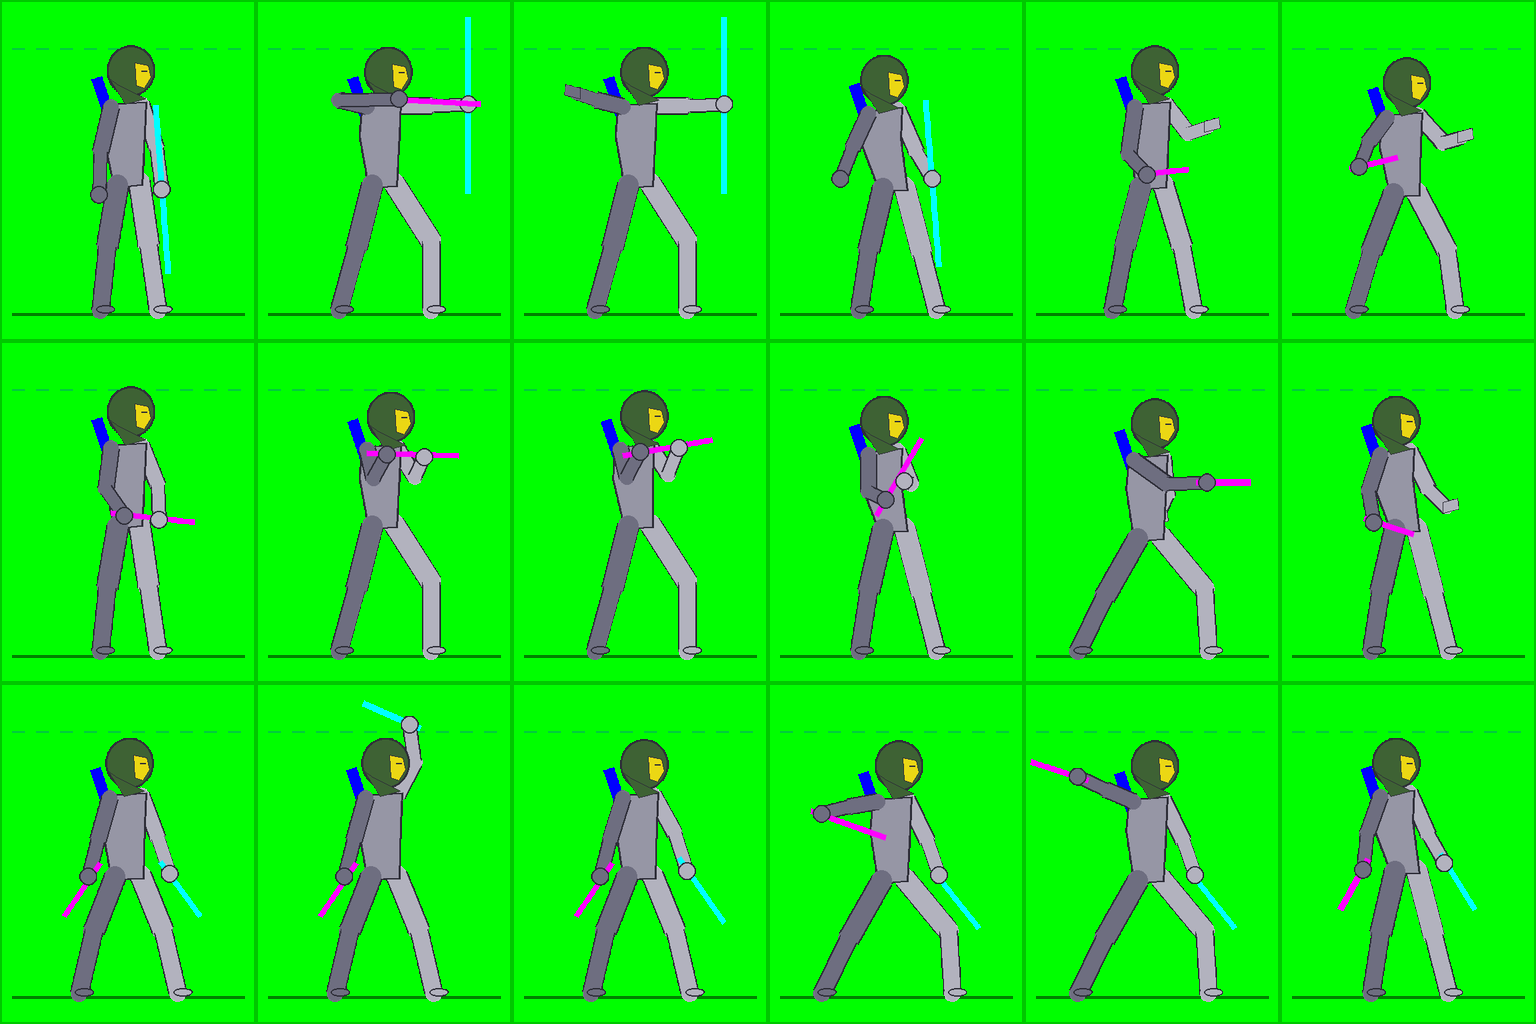
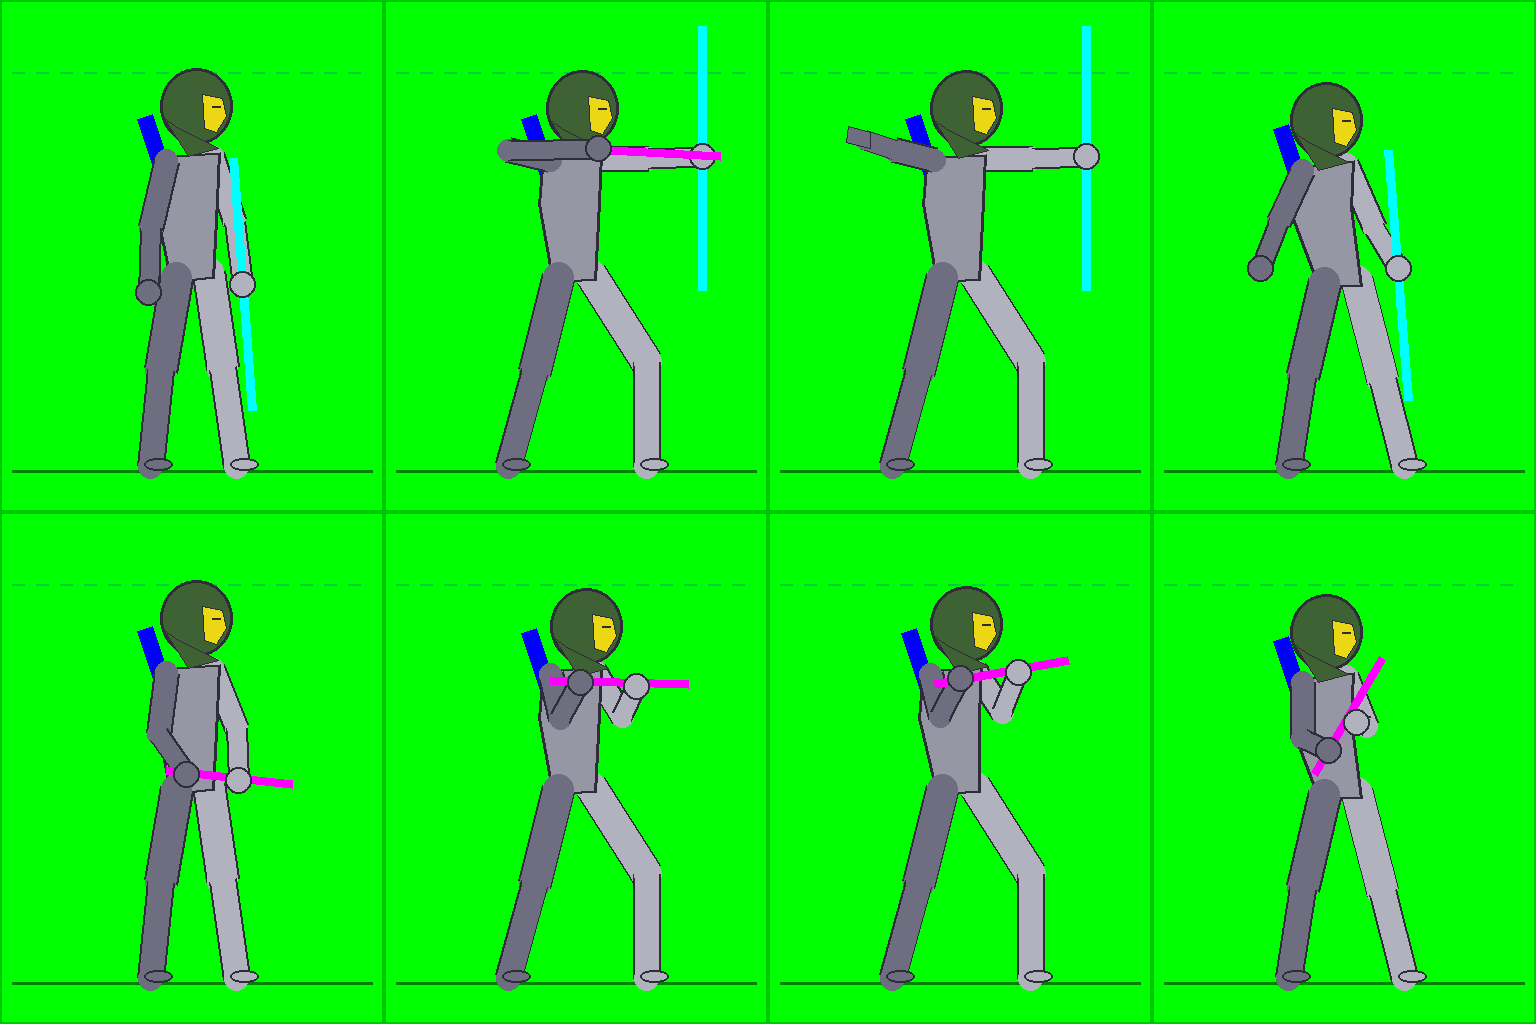
Archer: bow+crossbow sheet (done), dagger sheet template/draft/prompt
Claude-Session: https://claude.ai/code/session_01M8ejkLTav7LEMdtajuWjkN

diff --git a/art_source/new_art/battle/tools/archer_pose_draft.py b/art_source/new_art/battle/tools/archer_pose_draft.py
@@ -101,7 +101,7 @@ DUAL = {
     (1, 0): dict(UPD, **LUNGE, En=(120, 186), Wn=(80, 196), **FAR_LOW, quiver=True,
                  rods=[('near', MAG, (64, 192), (176, 232)), ('far', CYAN, (262, 300), (316, 368))]),
     (1, 1): dict(UPD, **LUNGE, En=(122, 160), Wn=(80, 140), **FAR_LOW, quiver=True,
-                 rods=[('near', MAG, (96, 146), (10, 118)), ('far', CYAN, (262, 300), (316, 368))]),
+                 rods=[('near', MAG, (96, 146), (46, 129)), ('far', CYAN, (262, 300), (316, 368))]),
     (1, 2): dict(RECOIL, En=(130, 226), Wn=(124, 280), Ef=(222, 228), Wf=(246, 270), quiver=True,
                  rods=[('near', MAG, (132, 264), (90, 340)), ('far', CYAN, (240, 256), (292, 340))]),
 }
@@ -121,17 +121,17 @@ ONE = {
 
 
 if __name__ == '__main__':
-    # one combined sheet (user, 2026-11-25): 6 x 3 cells; each mannequin is drawn at full size on a 384 x 512 cell and
-    # scaled into its 256 x 341 cell (head-top and ground lines scale onto the template's own lines)
-    LAYOUT = {(0, c): POSES[(0, c)] for c in range(4)}
-    LAYOUT.update({(1, c): POSES[(1, c)] for c in range(4)})
-    LAYOUT.update({(0, 4): ONE[(0, 0)], (0, 5): ONE[(0, 1)], (1, 4): ONE[(1, 0)], (1, 5): ONE[(1, 1)]})
-    LAYOUT.update({(2, c): DUAL[(c // 3, c % 3)] for c in range(6)})
-    im = Image.open(os.path.join(HERE, 'templates', 'archer_template.png')).convert('RGB')
-    W, H = im.size; cw, ch = W / 6, H / 3
+    # bow + crossbow sheet (2 x 4, done 2026-11-25)
+    im = Image.open(os.path.join(HERE, 'templates', 'archer_template.png')).convert('RGB'); d = ImageDraw.Draw(im)
+    for (r, c), P in POSES.items(): draw(d, P, c * 384, r * 512)
+    im.save(os.path.join(HERE, 'refs', 'archer_pose_draft.png'))
+    # dagger sheet (user, 2026-11-25: one task): 5 x 2 cells of 307 x 512 - one dagger, then dual daggers
+    LAYOUT = {(0, 0): ONE[(0, 0)], (0, 1): ONE[(0, 1)], (0, 2): ONE[(1, 0)], (0, 3): ONE[(1, 1)], (0, 4): DUAL[(0, 0)],
+              (1, 0): DUAL[(0, 1)], (1, 1): DUAL[(0, 2)], (1, 2): DUAL[(1, 0)], (1, 3): DUAL[(1, 1)], (1, 4): DUAL[(1, 2)]}
+    im = Image.open(os.path.join(HERE, 'templates', 'archer_dagger_template.png')).convert('RGB')
+    cw = im.size[0] / 5
     for (r, c), P in LAYOUT.items():
         tmp = Image.new('RGBA', (384, 512), (0, 0, 0, 0)); draw(ImageDraw.Draw(tmp), P, 0, 0)
-        tmp = tmp.resize((round(cw), round(ch)), Image.LANCZOS)
-        al = tmp.getchannel('A').point(lambda v: 255 if v > 110 else 0)
-        im.paste(tmp.convert('RGB'), (round(c * cw), round(r * ch)), al)
-    out = os.path.join(HERE, 'refs', 'archer_pose_draft.png'); im.save(out); print(out)
+        tmp = tmp.crop((40, 0, 40 + round(cw), 512))         # poses are centred at x~192 of 384; the cell is ~307 wide
+        im.paste(tmp.convert('RGB'), (round(c * cw), r * 512), tmp.getchannel('A').point(lambda v: 255 if v > 110 else 0))
+    out = os.path.join(HERE, 'refs', 'archer_dagger_pose_draft.png'); im.save(out); print(out)

diff --git a/art_source/new_art/battle/make_refs.py b/art_source/new_art/battle/make_refs.py
@@ -19,11 +19,8 @@ CLASSES = {
     # v6 (2026-11-21): main sheet = shield, two-handed, spear; the dual weapons get their own sheet (EXTRA_SHEETS)
     'soldier': [('1h', 'sword_shield'), ('2h', 'greataxe'), ('reach', 'longspear')],
     # (2026-11-24) the dagger has no shield -> dual stance on its own sheet, like the Soldier's dual weapons
-    # (2026-11-25, user: "combine them in 1 file") ONE sheet, 6 x 3: bow + one-dagger cells, crossbow + one-dagger cells,
-    # dual daggers. A 'mixed' row lists (stance, state) per cell.
-    'archer':  [('mixed', [('bow', 'stand'), ('bow', 'nock'), ('bow', 'attack'), ('bow', 'hit'), ('1h', 'stand'), ('1h', 'ready')]),
-                ('mixed', [('crossbow', 'stand'), ('crossbow', 'aim'), ('crossbow', 'attack'), ('crossbow', 'hit'), ('1h', 'attack'), ('1h', 'hit')]),
-                ('dual', ['stand', 'ready', 'slash_left', 'slash_right', 'finish', 'hit'])],
+    # main sheet = bow + crossbow (done 2026-11-25); the dagger poses are on the archer 'dagger' sheet (EXTRA_SHEETS)
+    'archer':  [('bow', 'bow'), ('crossbow', None)],
     'acolyte': [('1h', 'mace_shield'), ('2h', 'quarterstaff'), ('reach', 'longspear')],
     'mage':    [('1h', 'staff')],
     'warrior': [('1h', 'unarmed'), ('2h', 'greataxe'), ('reach', 'longspear')],
@@ -44,7 +41,11 @@ CLASS_STATES = {'soldier': {'1h': ['stand', 'ready', 'attack', 'hit'], 'dual': [
 
 # extra sheets per class: name -> rows of (stance, [cell states]). Soldier dual = user's dual-slash concept (2026-11-21):
 # stand, ready (front/cyan arm winds up), slash_left (cyan slashes down), slash_right (magenta sweeps), finish, hit
-EXTRA_SHEETS = {'soldier': {'dual': [('dual', ['stand', 'ready', 'slash_left']), ('dual', ['slash_right', 'finish', 'hit'])]}}   # (the Archer's dual and one-dagger cells are on its single combined sheet)
+EXTRA_SHEETS = {'soldier': {'dual': [('dual', ['stand', 'ready', 'slash_left']), ('dual', ['slash_right', 'finish', 'hit'])]},
+                # (user, 2026-11-25: one ChatGPT task) one dagger (off-hand empty) + dual daggers on ONE 5 x 2 sheet;
+                # a 'mixed' row lists (stance, state) per cell
+                'archer': {'dagger': [('mixed', [('1h', 'stand'), ('1h', 'ready'), ('1h', 'attack'), ('1h', 'hit'), ('dual', 'stand')]),
+                                      ('mixed', [('dual', 'ready'), ('dual', 'slash_left'), ('dual', 'slash_right'), ('dual', 'finish'), ('dual', 'hit')])]}}
 # older sheets drawn on an earlier layout: (class, sex) -> rows
 SHEET_ROWS = {('soldier', 'm'): [('1h', 'sword_shield'), ('dual', None), ('2h', 'greataxe'), ('reach', 'longspear')],   # v5 male
               ('soldier', 'f'): [('1h', 'sword_shield'), ('dual', None), ('2h', 'greataxe'), ('reach', 'longspear')]}   # Gemini edit of v5 male

diff --git a/docs/design-decisions.md b/docs/design-decisions.md
@@ -30,7 +30,7 @@ Archer and Mage melee weapons limited to **light** weapons on 2026-11-16 (user: 
 
 **Shields (user, 2026-11-20): each class has its own shield shape** — Soldier = **square** shield, Acolyte and Warrior = **round** shield (the Warrior could not use shields before; this adds it), **kite shield = reserved for a future Knight class**. A one-handed weapon **without** a shield uses the **dual-weapon stance** (left hand empty) in battle sprites. **The shield look is fixed per class** (user, 2026-11-20): shield equipment comes in broad categories (**light shield, heavy shield, tower shield**) that change the rules only; the sprite and the shield stance always show the class's own shield. Shield categories are not in the weapon sheet yet. **Headgear (user, 2026-11-20): battle sprites wear class headgear, portraits never do.** It is drawn into the sprite body by ChatGPT, so battle sprites have **no hair layer** (the portrait-hair sample is dropped for helmeted classes, `HEADGEAR` in `process_battle.py`). **Soldier final design** (`source/concepts/soldier_final_design.png`): plain open-face **barbute helm** (no crest, gold or emblem), simple silver plate armour, blue scarf and tabard, brown leather belt and gloves; the face is the only skin (yellow key). Soldier v3 prompt in `PROMPTS.md` (4 rows: square shield, dual, two-handed, spear), ~6 heads tall including the helmet. Helmet variations and faction colours on that sheet are not used. **Hair under the helmet (user, 2026-11-20):** ChatGPT draws a long-hair ponytail behind the neck in shades of **pure red** (never covering the body); `process_battle.py` cuts it into a hair value-map layer tinted with the hero's hair ramp and shows it **only for long portrait hairstyles** (`art_source/new_art/battle/hair_length.json`: male ponytail, long, wild_mane; female long, ponytail, braids, wavy, side_braid, curly_mane, warrior_halfup; buns/topknots/crown braids count as short). Both sexes get the piece. **Four sprites per stance (user, 2026-11-20, extends the three-sprite rule):** STAND | **READY** (the wind-up a moment before the attack) | ATTACK | GET HIT; the **dual row** is STAND | **ATTACK 1 (main hand)** | **ATTACK 2 (off-hand)** | GET HIT, because dual wield hits twice. Playback: stand → ready → attack → stand (dual: stand → attack 1 → attack 2 → stand); one weapon in the dual stance uses only attack 1. Soldier template is now 4 × 4 (`make_refs.py` `CLASS_STATES`), prompt v5 in `PROMPTS.md`. **Hand convention (corrected 2026-11-20):** in right-facing sprites the character's **LEFT arm is the lead arm** (right side of the picture, the shield arm) and the **RIGHT arm is the rear arm**; magenta (main weapon) is always in the right/rear hand, cyan in the left/lead hand, and the main-hand attack swings the rear arm forward across the body. An earlier prompt rule ("right hand leading on the right of the picture") was wrong and made ChatGPT draw both dual attacks with the left arm; the v5 male sheet's dual stand/hit are swapped back in code (`SWAP_HANDS`) and its ATTACK 1 needs the edit prompt in `PROMPTS.md`. **Dual weapons get their own sheet (user's dual-slash concept, 2026-11-21):** stand → ready (front/cyan arm winds up) → slash 1 (cyan chops down) → slash 2 (magenta sweeps across) → finish (magenta follow-through) → plus get hit; template `soldier_dual_template.png` (2 × 3), prompt names the arms only by rod colour (front arm = cyan, back arm = magenta), never left/right. Main Soldier sheet is now 3 rows × 4 (shield, two-handed, spear). One weapon without shield plays stand → slash 2 → finish from the magenta hand. The off-hand (cyan) hit shows first, the main hand second. **Slash waves (user, 2026-11-21):** in slash 1 the cyan weapon is hidden behind a slash wave (a chop arc from overhead down to the front foot), in slash 2 the magenta weapon is hidden behind a waist-level sweep wave; both weapons show again in finish (`SLASH_HIDE` / `slash_wave()` in `process_battle.py`). **Male dual sheet hand-fixed (2026-11-21):** ChatGPT kept putting the cyan rod on the near arm in slash 1 and swinging the main arm forward in slash 2 / finish, so those cells were rebuilt in code from the sheet's own parts (raw sheet in `source/concepts/soldier_dual_m_gpt_raw.png`); the near arm (big pauldron over the chest, left of the picture) always holds magenta. `SWAP_HANDS` is now empty. **Slash frames = drawn arc + weapon smear (user, 2026-11-21):** the user drew slash 1 and slash 2 in Gemini with a yellow slash arc and a grey **weapon smear** that does not show which weapon was swung (any one-handed weapon fits; a code-drawn motion-blurred sword was rejected as bad design and removed). Gemini then put them into the dual sheet (`source/concepts/soldier_dual_<sex>_sheet_gemini_smear.png`); `tools/green_fx_split.py` lifts the arc and smear off the green into a soft-alpha effect layer (`source/soldier_dual_<sex>_fx.png`) so their yellow never reaches the skin key, and fills the body hidden under the waist sweep. In those frames the swinging hand's weapon is not drawn (the smear stands for it); the other hand's weapon is drawn as usual; fists hidden under the smear are given in `source/soldier_dual_<sex>_grips.json`. `slash_wave()` in code remains the fallback for sheets without a drawn effect. **Female Soldier done (2026-11-21):** both female sheets are Gemini edits of the finished male sheets (main 4 × 4 v5 layout, `SHEET_ROWS` for both sexes; dual with the drawn effects); edit-the-finished-sheet is the method that avoided the arm/hand mistakes. **Metallic armour (user, 2026-11-21):** the AI sheets shade the Soldier's plate with a rosy tint, which read as red armour; `process_battle.py` `to_steel()` (classes in `METAL_ARMOUR`) turns rosy greys into cool steel of the same brightness and the maroon padding between plates into dark steel mail, leaving blue cloth, brown leather, gold trim, hair and skin alone. Applies to every Soldier layer, both sexes. **Downed sprite (user, 2026-11-24):** one downed pose per sex shared by every Soldier loadout (kneeling on both knees, head hanging, empty hands on the ground; no weapon or shield). ChatGPT drew it on `templates/soldier_downed_template.png` (the finished stand figures in the bottom row as reference); `process_battle.py` `process_downed()` scales it from those stand figures and writes `sprites/soldier_<sex>_<loadout>_downed.png` for every loadout. The game export still shows downed as the greyed hit frame until it picks up the new `downed` state. **Dual row:** the first helmet sheets drew the dual stand facing the viewer and the attack side-on, so the weapon seemed to change hands; the Soldier v4 prompt keeps the right hand leading on the right of the figure in all three poses.
 
-**Archer battle sprites (2026-11-24/25):** design sheet by ChatGPT (`source/concepts/archer_design.png`), **hood up** (user's headgear choice), so the hood hides the hair (no hair key) and the face is the only skin. Poses come from **mannequin pose drafts drawn in code** (`tools/archer_pose_draft.py`, `refs/archer_*pose_draft.png`): NEAR arm darker in front, FAR arm lighter behind, sticks in the right hands. **One combined sheet** (user, 2026-11-25: one ChatGPT task), 6 × 3 (`CLASSES['archer']`, 'mixed' rows): row 1 = bow (stand | nock | release | hit) + one dagger (stand | ready); row 2 = crossbow (stand | aim | release | hit) + one dagger (attack | hit); row 3 = **dual daggers** (stand | ready | slash 1 | slash 2 | finish | hit, like the Soldier's dual sheet). **One dagger has its own one-handed poses** (off-hand open and empty; user, 2026-11-25 - for the Archer this replaces the one-weapon-uses-the-dual-stance rule). Male first by ChatGPT, female as Gemini edits of the finished male sheets.
+**Archer battle sprites (2026-11-24/25):** design sheet by ChatGPT (`source/concepts/archer_design.png`), **hood up** (user's headgear choice), so the hood hides the hair (no hair key) and the face is the only skin. Poses come from **mannequin pose drafts drawn in code** (`tools/archer_pose_draft.py`, `refs/archer_*pose_draft.png`): NEAR arm darker in front, FAR arm lighter behind, sticks in the right hands. Two sheets: **main = bow + crossbow, done** (`source/archer_m_sheet.png`, ChatGPT from the 2 × 4 pose draft, 2026-11-25): bow row stand | nock | release | hit (bow = cyan stick in the far hand, arrow = magenta line), crossbow row stand | aim | release | hit (one magenta stock in both fists). **Dagger sheet** (one ChatGPT task, 5 × 2, `EXTRA_SHEETS['archer']['dagger']`, 'mixed' rows): one dagger stand | ready | attack | hit (off-hand open and empty; user, 2026-11-25 - for the Archer this replaces the one-weapon-uses-the-dual-stance rule) + dual daggers stand | ready | slash 1 | slash 2 | finish | hit. Not yet built into sprites: `process_battle.py` needs Archer loadouts (bow as a cyan stick, a code-drawn crossbow, the blue quiver marker cut out and replaced by the quiver layer). Male first by ChatGPT, female as Gemini edits of the finished male sheets.
 
 **Warrior look (user, 2026-11-18): a barbarian, but armored** — can wear up to medium armor, so leather and chain or scale over a barbarian build (furs, leather harness), not the old Brawler's sleeveless tunic. Exact outfit to be drawn with the new art. Legacy battle-sprite and portrait files keep the name `brawler` (they are the old look and reference only).
 

diff --git a/art_source/new_art/battle/PROMPTS.md b/art_source/new_art/battle/PROMPTS.md
@@ -629,3 +629,37 @@ Hard rules:
 If a few cells come out wrong, keep the sheet and fix only those cells in Gemini: attach the sheet and the pose draft and
 say "Fix cell <row>,<column> of the first image so its pose and sticks match the same cell of the second image. Keep
 everything else."
+
+### Archer - dagger sheet: one dagger + dual daggers on ONE sheet (2026-11-25)
+The bow + crossbow sheet is done (`source/archer_m_sheet.png`, the user's ChatGPT result from the 2 x 4 draft), so the
+18-cell combined sheet above is not needed. The dagger poses are one 5 x 2 sheet (one ChatGPT task): row 1 = one dagger
+(stand | ready | attack | hit) + dual stand; row 2 = dual ready | slash 1 | slash 2 | finish | hit.
+Attach, in order: (1) `templates/archer_dagger_template.png`, (2) `refs/archer_dagger_pose_draft.png`,
+(3) `source/archer_m_sheet.png` (the finished Archer: copy the character from it). Save as `source/archer_dagger_m_sheet.png`.
+
+```
+Use the first attached image as the canvas: a grid of 2 rows x 5 cells on flat pure green (#00FF00), each cell with a dark ground line and a dashed head-top line. Keep the canvas size, the grid, the lines and the green exactly as they are. Draw ONE full-body character per cell (10 figures), feet on that cell's ground line, top of the hood at the dashed line when standing upright, all at the same scale and the same character.
+
+POSES: the second attached image is the pose draft: grey mannequins on the same grid. Copy each mannequin's pose into the same cell: the same stance, legs, body angle, arm positions and the same coloured stick in the same hand at the same angle. Do not invent new poses and do not mirror any figure.
+
+The two arms (check every cell before you finish):
+- The NEAR arm (darker grey in the draft): its shoulder is on the LEFT side of the picture and it is drawn IN FRONT of the body. The near hand ALWAYS holds the MAGENTA stick (#FF00FF).
+- The FAR arm (lighter grey in the draft): its shoulder is on the RIGHT side of the picture, partly hidden BEHIND the body.
+- A stick never moves to the other hand.
+
+Cells:
+- Row 1, cells 1-4 = ONE DAGGER: STAND (guard, near fist at the hip, stick pointing forward) | READY (crouched, near arm drawn back) | ATTACK (deep lunge, near arm thrust straight forward, stick level) | GET HIT (recoiling back, wincing). Only the near hand holds a stick; the FAR hand is OPEN and EMPTY.
+- Row 1, cell 5 and row 2 = TWO DAGGERS: the FAR hand holds a CYAN stick (#00FFFF) as well. STAND (both sticks low) | READY (the far arm raised above the hood, cyan stick angled back) | SLASH 1 (the far arm chopped down in front, cyan stick pointing down toward the front foot) | SLASH 2 (deep lunge, the near arm swung out behind the body at chest height, its magenta stick pointing FORWARD across the waist) | FINISH (the near arm stretched back and up, magenta stick pointing back) | GET HIT (recoiling back, both sticks low).
+
+Character: exactly the archer of the third attached image (same face, same forest-green cloak with the hood up, same brown leather vest, white shirt, bracers, fingerless gloves, trousers, laced boots, belt and pouch, same colours, same size, same pixel-art style). FACING RIGHT in every cell.
+
+Quiver marker: in every cell, the same flat pure BLUE (#0000FF) bar on the back as in the third image, exactly where the blue bar is in the draft. Flat colour, no shading, no outline, partly hidden behind the body and cloak. Do not draw the quiver.
+
+Hard rules:
+- No daggers, knives or other weapons: only the flat sticks, 2-3% of the figure height thick, flat single colours with no shading or outline, sticking out of both sides of the fist where the handle would be, fingers wrapped over them. No other magenta, cyan or pure blue anywhere.
+- The face is the only bare skin, in shades of pure yellow as in the third image. No hair visible; no pure red anywhere.
+- No text, labels, slash effects, motion lines, shadows on the ground or background objects.
+- Output one PNG at the canvas's exact size.
+```
+If a few cells come out wrong, fix only those in Gemini: attach the sheet and the pose draft and say "Fix cell
+<row>,<column> of the first image so its pose and sticks match the same cell of the second image. Keep everything else."
